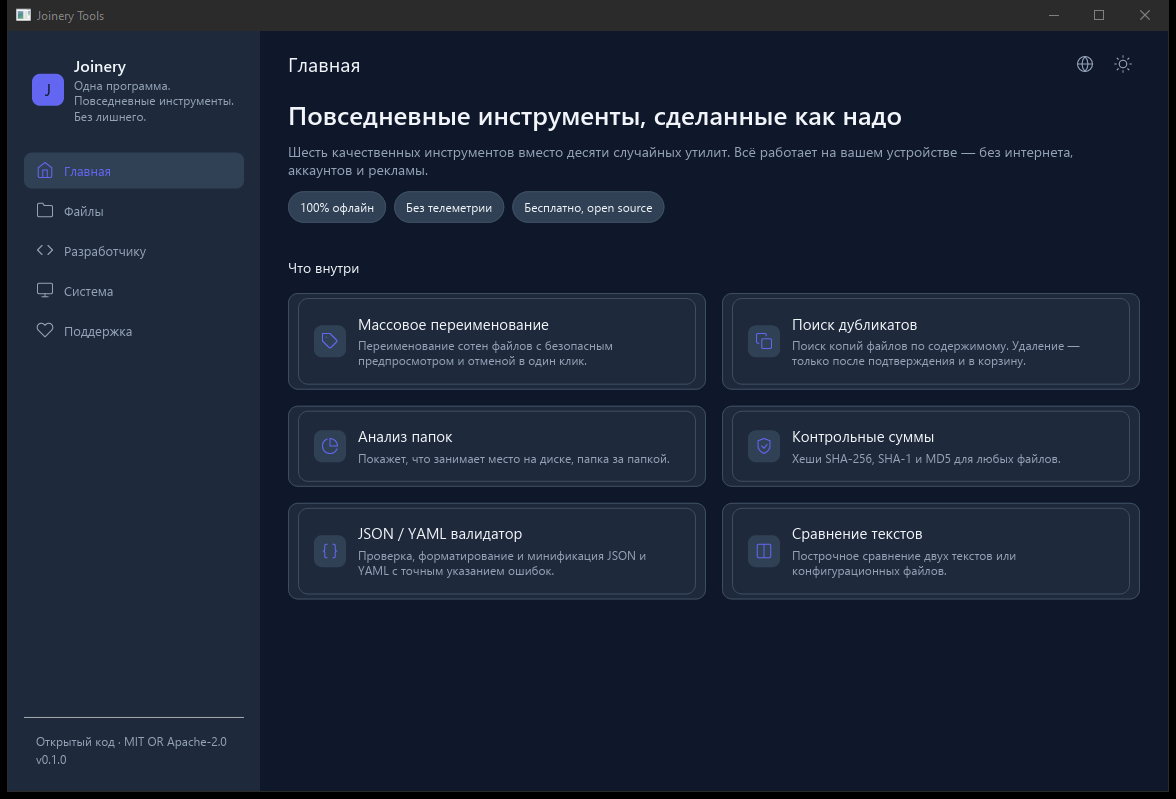
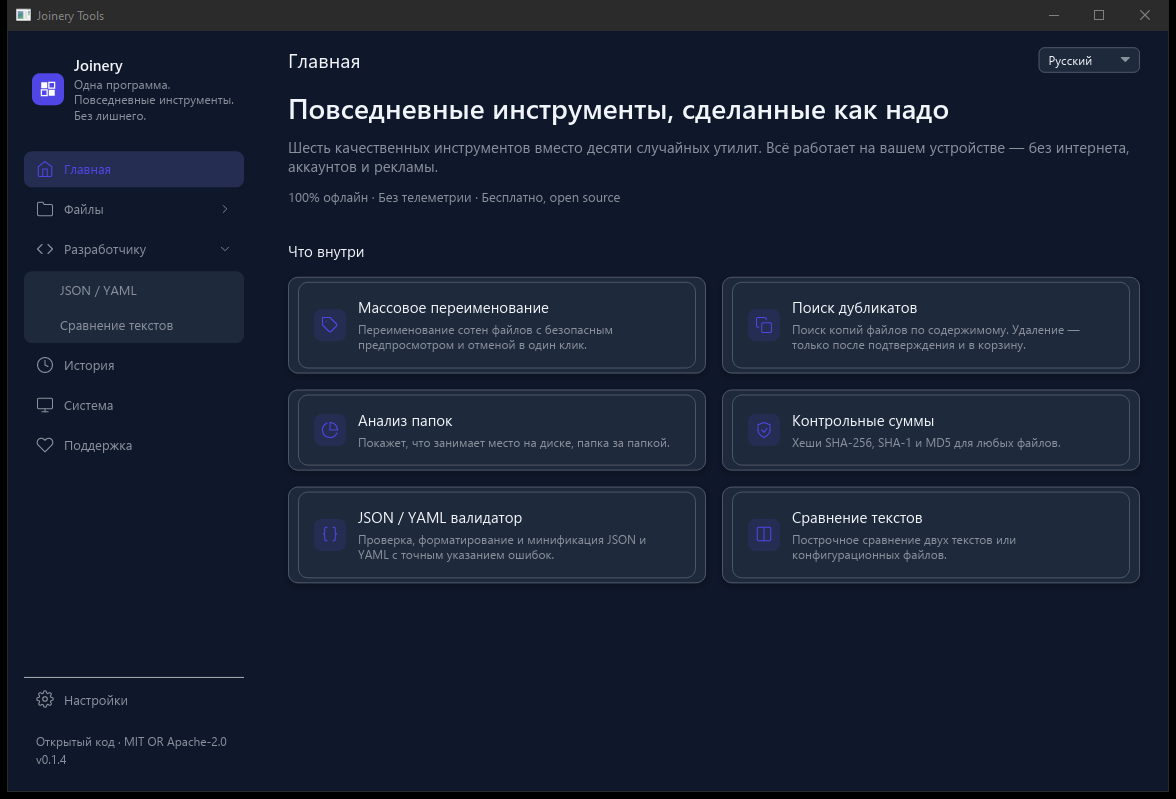
Update README, screenshots and the benchmark chart for 0.1.4
CI and release badges, the user palette in place of dark/light
themes, the in-house diff engine in the tool table, current command
line flags, fresh screenshots of the home page and the settings
palette, and a regenerated benchmark chart from the current build.

diff --git a/README.md b/README.md
@@ -7,6 +7,10 @@ Joinery Tools is a local-first desktop toolbox for everyday work with files,
 text and your system. Everything runs on your device — no internet, no
 accounts, no ads, no telemetry.
 
+[![CI](https://github.com/notfelixx1/joinery/actions/workflows/ci.yml/badge.svg)](https://github.com/notfelixx1/joinery/actions/workflows/ci.yml)
+[![Release](https://img.shields.io/github/v/release/notfelixx1/joinery?sort=semver)](https://github.com/notfelixx1/joinery/releases/latest)
+[![License](https://img.shields.io/badge/license-MIT_OR_Apache--2.0-blue)](https://github.com/notfelixx1/joinery/blob/main/LICENSE-MIT)
+
 [Русская версия ниже](#joinery-tools-по-русски)
 
 ## Why Joinery
@@ -31,19 +35,21 @@ accounts, no ads, no telemetry.
 | **Folder Analyzer** | See what is eating your disk space — per-folder sizes, largest files. |
 | **Checksum** | SHA-256, SHA-1 and MD5 hashes, streamed with 1 MiB read buffers; verify against an expected hash. |
 | **JSON / YAML Validator** | Validate, pretty-print and minify with exact error positions. |
-| **Text Diff** | Line-by-line comparison of two texts or config files. |
+| **Text Diff** | Line-by-line comparison of two texts or config files, powered by an in-house contiguity-first diff engine. |
 
-Also included: a History page with one-click undo of past renames,
-empty-state hints with recent folders, dark & light themes, an
-interface in eight languages (English, Русский, Українська, Español,
-Deutsch, Français, Português, Italiano), SQLite-backed settings and
-undo journal.
+Also included: a Settings page with a user palette — recolor buttons,
+background, sidebar, cards and text via `#RRGGBB`, no themes needed —
+a History page with one-click undo of past renames, session restore
+and window memory, auto-copied checksums, a live progress strip, empty
+state hints with recent folders, an interface in eight languages
+(English, Русский, Українська, Español, Deutsch, Français, Português,
+Italiano), SQLite-backed settings and undo journal.
 
 ## Screenshots
 
-| Light | Dark |
+| Home (default palette) | Settings — user palette |
 | --- | --- |
-| ![Light theme](docs/screenshots/light.png) | ![Dark theme](docs/screenshots/dark.png) |
+| ![Home, dark palette](docs/screenshots/dark.png) | ![Settings](docs/screenshots/settings.png) |
 
 ## Download
 
@@ -53,18 +59,18 @@ Windows, Linux and macOS builds are attached to every release.
 
 ## Command line
 
-Launch straight on a tool, with a preset theme, language or folder:
+Launch straight on a tool, with a preset palette, language or folder:
 
 ```bash
-joinery --renamer --folder "D:\photos" --dark
+joinery --renamer --folder "D:\photos"
 joinery --duplicates --lang ru
+joinery --settings
 ```
 
 Flags: `--renamer` `--duplicates` `--analyzer` `--checksum` `--jsonyaml`
-`--diff` `--history` `--system` `--support` open the matching tool,
-`--dark` / `--light` override the saved theme, `--lang en|ru` switches
-the language, `--folder <path>` preselects a folder, `--help` prints
-the list.
+`--diff` `--history` `--system` `--support` `--settings` open the
+matching page, `--lang en|ru|uk|es|de|fr|pt|it` switches the language,
+`--folder <path>` preselects a folder, `--help` prints the list.
 
 ## Benchmarks
 
@@ -137,10 +143,10 @@ pick whichever suits your project.
 никаких облачных API и обязательного ИИ. Одна программа вместо десяти мелких
 утилит.
 
-**Инструменты 0.1:** массовое переименование файлов (с предпросмотром и
+**Инструменты:** массовое переименование файлов (с предпросмотром и
 отменой), поиск дубликатов (удаление только в корзину и после
 подтверждения), анализ занятого места, контрольные суммы SHA-256/SHA-1/MD5,
-валидатор JSON/YAML, сравнение текстов.
+валидатор JSON/YAML, сравнение текстов на собственном движке.
 
 **Безопасность — преимущество продукта:** опасные операции никогда не
 выполняются сразу. Сначала предпросмотр, затем подтверждение; журнал

diff --git a/docs/architecture.md b/docs/architecture.md
@@ -59,7 +59,7 @@ bundled browser and no network access.
 
 One SQLite database in the OS app-data directory:
 
-- `settings` — theme, language (key/value).
+- `settings` — language, user palette (five colors), session state, window geometry (key/value).
 - `undo_journal` — applied rename batches (JSON payload + `undone` flag).
 
 Nothing else is persisted; nothing leaves the machine.
